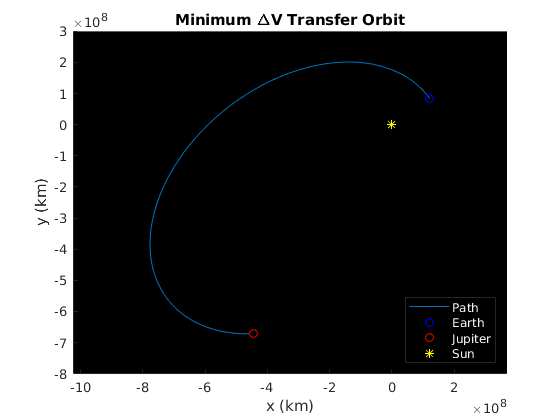
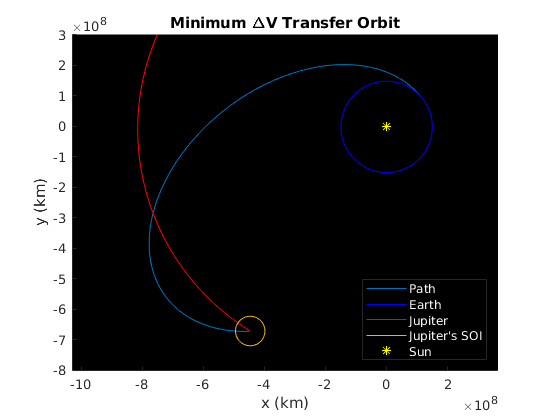
DONEgit add *!

diff --git a/ASMProjectPart1.m b/ASMProjectPart1.m
@@ -1,4 +1,4 @@
-% AA279B - Class Project
+%% AA279B - Class Project
 % From Earth to the Water on Europa
 % Part 1: Optimal Earth-Jupiter transfer orbit
 % Code by:
@@ -17,6 +17,7 @@ ATs = JD_initial+(365.25*2):10:JD_initial+(365.25*8);
 
 % Calculate delta-Vs
 dvs = zeros(length(LTs), length(ATs));
+TOFs = zeros(length(LTs), length(ATs));
 vfs = zeros(length(LTs), length(ATs),3);
 v0s = zeros(length(LTs), length(ATs),3);
 for Lidx = 1:length(LTs)
@@ -26,6 +27,7 @@ for Lidx = 1:length(LTs)
         [v0, vf] = AA279lambert_curtis(muS,rE,rJ,'pro', 0,...
                                       (ATs(Aidx)-LTs(Lidx))*24*3600);
         dvs(Lidx,Aidx) = norm(v0-vE);% + norm(vf-vJ);
+        TOFs(Lidx,Aidx) = ATs(Aidx)-LTs(Lidx);
         v0s(Lidx,Aidx,:) = v0;
         vfs(Lidx,Aidx,:) = vf;
     end
@@ -34,9 +36,10 @@ end
 % Recover dates
 LTs = LTs - 1721058.5;
 ATs = ATs - 1721058.5;
+% TOFs = ATs-LTs;
 
-% Minimize
-[minrow, minj] = min(dvs);
+%% Minimize
+[minrow, minj] = min(dvs+0.001*TOFs);
 [mindv, mink] = min(minrow);
 optAT = ATs(mink);
 optLT = LTs(minj(mink));
@@ -52,25 +55,35 @@ fprintf("Time of flight = %f years\n", (optAT-optLT)/365.25);
 fprintf("Velocity on arrival = %f km/s\n", norm(optvf));
 fprintf("Departure velocity = %f km/s\n", norm(optv0));
 
-
-% Simulate orbit
+%% Simulate orbit
 [r0, v0] = findPlanet(3,optLT+1721058.5);
 x0 = [r0; optv0];
-tspan = 0:1000000:(optAT-optLT)*24*3600;
+tspan = 0:1000:(optAT-optLT)*24*3600;
 opts = odeset('RelTol', 1e-6, 'AbsTol', 1e-9);
 [t, x] = ode113(@(t1,x1) FODE(t1,x1,muS), tspan, x0);
 
 % Planet orbits
 rE_list = zeros(length(t),3);
 rJ_list = zeros(length(t),3);
+vJ_list = zeros(length(t),3);
 for j = 1:length(t)
     [rE_list(j,:), v0] = findPlanet(3,optLT+1721058.5+t(j)/(24*3600));
-    [rJ_list(j,:), v0] = findPlanet(5,optLT+1721058.5+t(j)/(24*3600));
+    [rJ_list(j,:), vJ_list(j,:)] = findPlanet(5,optLT+1721058.5+t(j)/(24*3600));
 end
 
+%% Return values
+SOIjup = 48.2*10^6; % [km]
+r_JCI = x(:,1:3)-rJ_list(:,1:3);
+v_JCI = x(:,4:6)-vJ_list(:,1:3);
+dist2SOI = abs(vecnorm(r_JCI')'-SOIjup);
+[minDist2SOI, idxsoi] = min(dist2SOI);
+fprintf("\nMinimum distance to SOI = %f km\n", minDist2SOI);
+fprintf("Return JCI position = [%f; %f; %f] [km]\n",...
+        r_JCI(idxsoi,1), r_JCI(idxsoi,2), r_JCI(idxsoi,3));
+fprintf("Return JCI velocity = [%f; %f; %f] [km/s]\n",...
+        v_JCI(idxsoi,1), v_JCI(idxsoi,2), v_JCI(idxsoi,3));
+
 % Plot orbit
-[rE,vE] = findPlanet(3, optLT+1721058.5);
-[rJ,vJ] = findPlanet(5, optAT+1721058.5);
 figure
 hold on
 line(x(:,1), x(:,2));
@@ -78,19 +91,24 @@ plot(rE_list(:,1),rE_list(:,2), 'b');
 plot(rJ_list(:,1),rJ_list(:,2), 'r');
 % plot(rE(1),rE(2),'bo')
 % plot(rJ(1),rJ(2),'ro')
+% Plot circle
+th = 0:pi/50:2*pi;
+xcirc = SOIjup*cos(th);
+ycirc = SOIjup*sin(th);
+plot(xcirc+rJ_list(end,1), ycirc+rJ_list(end,2));
 plot(0,0,'y*')
 hold off
 set(gca,'Color','k')
 xlabel("x (km)")
 ylabel("y (km)")
-lgd = legend("Path","Earth","Jupiter","Sun");
+lgd = legend("Path","Earth","Jupiter","Jupiter's SOI","Sun");
 lgd.TextColor = 'white';
 lgd.Location = 'southeast';
 title("Minimum \DeltaV Transfer Orbit")
 axis equal
 ylim([-8e8,3e8])
 
-% Plot contour
+%% Plot contour
 figure
 hold on
 contourf(ATs, LTs, dvs, 'ShowText', 'on')

diff --git a/ASMProjectManEntry.m b/ASMProjectManEntry.m
@@ -1,0 +1,106 @@
+% AA279B - Class Project
+% From Earth to the Water on Europa
+% Part 3: Europa Landing with Maneuver
+% Code by:
+% Christine Hamilton and
+% Juan Martinez Castellanos
+clc; clear all; close all;
+% Constants
+Reu = 3122000/2; % [m]
+Meu = 4.799844*10^22; % [kg]
+G = 6.67430*10^-11; % [m3/kg1s2]
+mueu = G*Meu;
+
+% Initial conditions
+r0 = 300000+Reu; % [m]
+r1 = [r0;0;0];
+v0 = sqrt(G*Meu/r0);
+v0 = [0;v0;0];
+% Target
+r2 = [0;0;Reu];
+
+% Lambert to surface
+% find minimum time
+% c = norm(rf_ECI-r0_ECI);
+% s = (norm(rf_ECI)+norm(r0_ECI))/2;
+% t_min = sqrt(2/)
+collision_flag = 0;
+dV_opt = 99999999999;
+for t = 10:10:10000
+    [v1, v2] = AA279lambert_curtis(mueu,r1,r2,'pro',0,t);
+    % Check for collision
+    collision_flag = 0;
+%     if ((dot(r1,v1)<0) && (dot(r2,v2)>0))
+%         energy = norm(v1)^2/2-mueu/norm(r1);
+%         a = -mueu/(2*energy);
+%         h = norm(cross(r1,v1));
+%         p = h^2/mueu;
+%         e = sqrt((a-p)/a);
+%         rp = a*(1-e);
+%         if rp <= Reu
+%             collision_flag = 1;
+%         end
+%     end
+    % TEST TEST
+    x0 = [r1;v1];
+    [ttest, xtest] = ode113(@(t1,x1) FODE(t1,x1,mueu), 0:10:t, x0);
+    rp = min(vecnorm(xtest(:,1:3)')');
+    if rp <= Reu
+        collision_flag = 1;
+    end
+    
+    
+    dV_tot = norm(v1-v0) + norm(v2);
+    if (collision_flag==0) && (dV_tot<dV_opt)
+        v1_opt = v1;
+        v2_opt = v2;
+        dV_opt = dV_tot;
+        t_opt = t;
+    end
+end
+fprintf("Optimal dV = %f km/sec\n", dV_opt/1000);
+fprintf("Optimal time = %f sec\n", t_opt);
+
+% Simulation
+x0 = [r1;v0];
+opts = odeset('RelTol', 1e-6, 'AbsTol', 1e-9);
+[t, x] = ode113(@(t1,x1) FODE(t1,x1,mueu), 0:10:10000, x0);
+x0 = [r1;v1_opt];
+[tman, xman] = ode113(@(t1,x1) FODE(t1,x1,mueu), 0:10:t_opt, x0);
+
+%% Plots
+[xeu , yeu, zeu] = ellipsoid(0, 0, 0, Reu, Reu, Reu, 20);
+figure
+hold on
+line(x(:,1)/1000, x(:,2)/1000, x(:,3)/1000, 'Color','r');
+line(xman(:,1)/1000, xman(:,2)/1000, xman(:,3)/1000,'Color','g');
+surface(xeu/1000, yeu/1000, zeu/1000, 'EdgeColor', 'black');
+hold off
+xlabel("x (km)")
+ylabel("y (km)")
+zlabel("z (km)")
+title("Trajectory of the Probe");
+legend("Parking orbit","Landing trajectory")
+axis equal;
+    
+% FUNCTIONS
+function dx = FODE(t, x, mu)
+    dx = zeros(6,1);
+    dx(1:3) = x(4:6);
+    dx(4:6) = -mu*x(1:3)/norm(x(1:3))^3;
+end
+
+function plotAroundEarth(r, tl)
+    Re = 6.3781*10^6; % [m]
+    [xE , yE, zE] = ellipsoid(0, 0, 0, Re, Re, Re, 20);
+    figure
+    hold on
+    surface(xE, yE, zE, 'EdgeColor', 'black');
+    line(r(:,1), r(:,2), r(:,3));
+    xlabel("x (km)")
+    ylabel("y (km)")
+    zlabel("z (km)")
+    title(tl)
+    axis equal;
+end
+

diff --git a/bEuropaAtmosphericModel.m b/bEuropaAtmosphericModel.m
@@ -5,7 +5,7 @@ gamma = 1.4; %O2 atmosphere, diatomic value
 Ru = 8314.5; 
 MW = 32; %g/cm^3
 
-numDens = 10e8; %number density of oxygen on surface, particles/cm^3
+numDens = 1000e8; %number density of oxygen on surface, particles/cm^3
 mols = 6.02e23; %avogadro's number
 
 surfaceDensity = numDens*MW/mols*1000; %surface density in kg/m^3

diff --git a/deltaVcalculation.m b/deltaVcalculation.m
@@ -1,0 +1,2 @@
+% Delta V calculations
+vJm = 8.894830*1000;
